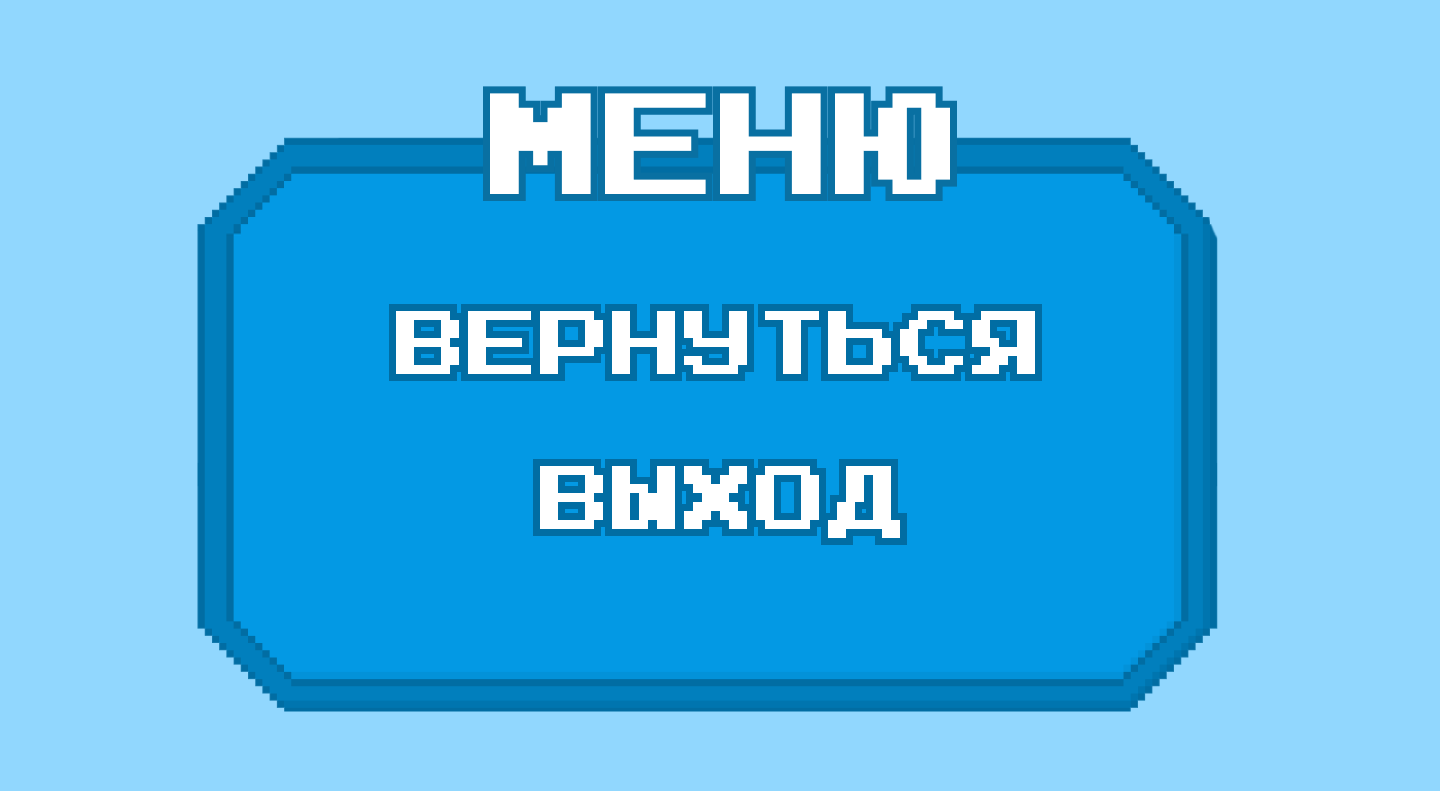
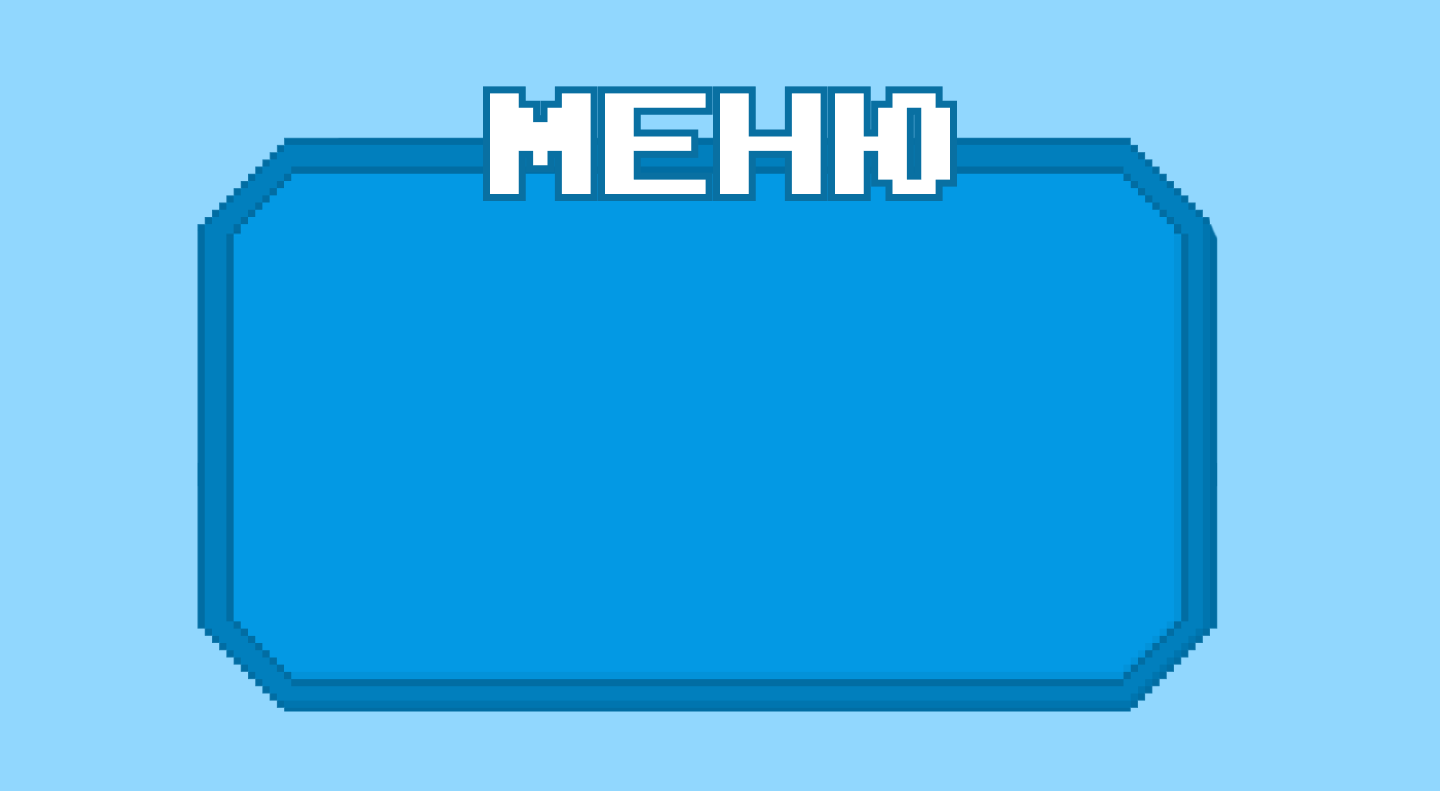
Menuha

Changed region(s): [[0.25, 0.3641, 0.75, 0.4855], [0.3438, 0.5765, 0.6562, 0.6979]]

diff --git a/MATMEH QUEST/Properties/Resources.Designer.cs b/MATMEH QUEST/Properties/Resources.Designer.cs
@@ -153,6 +153,16 @@ namespace MATMEH_QUEST.Properties {
         /// <summary>
         ///   Looks up a localized resource of type System.Drawing.Bitmap.
         /// </summary>
+        public static System.Drawing.Bitmap Вернуться_кнопка {
+            get {
+                object obj = ResourceManager.GetObject("Вернуться_кнопка", resourceCulture);
+                return ((System.Drawing.Bitmap)(obj));
+            }
+        }
+        
+        /// <summary>
+        ///   Looks up a localized resource of type System.Drawing.Bitmap.
+        /// </summary>
         public static System.Drawing.Bitmap Всплывающее_меню {
             get {
                 object obj = ResourceManager.GetObject("Всплывающее_меню", resourceCulture);
@@ -166,6 +176,16 @@ namespace MATMEH_QUEST.Properties {
         public static System.Drawing.Bitmap Выход {
             get {
                 object obj = ResourceManager.GetObject("Выход", resourceCulture);
+                return ((System.Drawing.Bitmap)(obj));
+            }
+        }
+        
+        /// <summary>
+        ///   Looks up a localized resource of type System.Drawing.Bitmap.
+        /// </summary>
+        public static System.Drawing.Bitmap Выход_кнопка {
+            get {
+                object obj = ResourceManager.GetObject("Выход_кнопка", resourceCulture);
                 return ((System.Drawing.Bitmap)(obj));
             }
         }
@@ -203,9 +223,29 @@ namespace MATMEH_QUEST.Properties {
         /// <summary>
         ///   Looks up a localized resource of type System.Drawing.Bitmap.
         /// </summary>
+        public static System.Drawing.Bitmap Деканат_готово {
+            get {
+                object obj = ResourceManager.GetObject("Деканат_готово", resourceCulture);
+                return ((System.Drawing.Bitmap)(obj));
+            }
+        }
+        
+        /// <summary>
+        ///   Looks up a localized resource of type System.Drawing.Bitmap.
+        /// </summary>
         public static System.Drawing.Bitmap Деканат_задание {
             get {
                 object obj = ResourceManager.GetObject("Деканат_задание", resourceCulture);
+                return ((System.Drawing.Bitmap)(obj));
+            }
+        }
+        
+        /// <summary>
+        ///   Looks up a localized resource of type System.Drawing.Bitmap.
+        /// </summary>
+        public static System.Drawing.Bitmap Деканат_ожидание {
+            get {
+                object obj = ResourceManager.GetObject("Деканат_ожидание", resourceCulture);
                 return ((System.Drawing.Bitmap)(obj));
             }
         }
@@ -253,9 +293,29 @@ namespace MATMEH_QUEST.Properties {
         /// <summary>
         ///   Looks up a localized resource of type System.Drawing.Bitmap.
         /// </summary>
-        public static System.Drawing.Bitmap Команта1_задание {
+        public static System.Drawing.Bitmap Комната601_готово {
             get {
-                object obj = ResourceManager.GetObject("Команта1_задание", resourceCulture);
+                object obj = ResourceManager.GetObject("Комната601_готово", resourceCulture);
+                return ((System.Drawing.Bitmap)(obj));
+            }
+        }
+        
+        /// <summary>
+        ///   Looks up a localized resource of type System.Drawing.Bitmap.
+        /// </summary>
+        public static System.Drawing.Bitmap Комната601_задание {
+            get {
+                object obj = ResourceManager.GetObject("Комната601_задание", resourceCulture);
+                return ((System.Drawing.Bitmap)(obj));
+            }
+        }
+        
+        /// <summary>
+        ///   Looks up a localized resource of type System.Drawing.Bitmap.
+        /// </summary>
+        public static System.Drawing.Bitmap Комната601_ожидание {
+            get {
+                object obj = ResourceManager.GetObject("Комната601_ожидание", resourceCulture);
                 return ((System.Drawing.Bitmap)(obj));
             }
         }

diff --git a/MATMEH QUEST/View.cs b/MATMEH QUEST/View.cs
@@ -53,13 +53,18 @@ namespace MATMEH_QUEST
             {
                 PaintTrain(graphics, Resources.Обучение_2, 430, 870,  OverButtonOnClick);
             }
+            else if (isMenu)
+            {
+                PaintMenu(graphics);
+            }
             else
             {
                 var menuButton = new PictureBox()
                 {
                     Image = Resources.меню,
                     BackColor = Color.Transparent,
-                    SizeMode = PictureBoxSizeMode.Zoom
+                    SizeMode = PictureBoxSizeMode.Zoom,
+                    Location =  new Point(20, 0)
                 };
                 menuButton.Click += MenuButtonOnClick;
                 Controls.Add(menuButton);
@@ -93,12 +98,67 @@ namespace MATMEH_QUEST
 
         private void MenuButtonOnClick(object sender, EventArgs e)
         {
+            Controls.Clear();
             isMenu = true;
+            Invalidate();
         }
 
         private void PaintMenu(Graphics graphics)
         {
-            BackgroundImage = Resources.меню;
+            var backgroundColor = Color.FromArgb(145, 215, 254);
+            BackColor = backgroundColor;
+            var table = new TableLayoutPanel();
+            table.RowStyles.Clear();
+            table.ColumnStyles.Clear();
+            table.RowStyles.Add(new RowStyle(SizeType.Percent, 40));
+            table.RowStyles.Add(new RowStyle(SizeType.Percent, 25));
+            table.RowStyles.Add(new RowStyle(SizeType.Percent, 25));
+            table.RowStyles.Add(new RowStyle(SizeType.Percent, 35));
+            table.ColumnStyles.Add(new ColumnStyle(SizeType.Percent, 30));
+            table.ColumnStyles.Add(new ColumnStyle(SizeType.Percent, 40));
+            table.ColumnStyles.Add(new ColumnStyle(SizeType.Percent, 30));
+            table.BackgroundImage = Resources.Всплывающее_меню;
+            table.BackgroundImageLayout = ImageLayout.Zoom;
+
+            var returnButton = new Button
+            {
+                BackgroundImage = Resources.Вернуться_кнопка,
+                BackgroundImageLayout = ImageLayout.Zoom,
+                FlatStyle = FlatStyle.Flat,
+                BackColor = Color.FromArgb(3, 153, 228)
+            };
+            returnButton.FlatAppearance.BorderSize = 0;
+            returnButton.Dock = DockStyle.Fill;
+
+            var exit = new Button
+            {
+                BackgroundImage = Resources.Выход_кнопка,
+                BackgroundImageLayout = ImageLayout.Zoom,
+                FlatStyle = FlatStyle.Flat,
+                BackColor = Color.FromArgb(3, 153, 228)
+            };
+            exit.FlatAppearance.BorderSize = 0;
+            exit.Dock = DockStyle.Fill;
+
+            table.Controls.Add(new Control(), 0, 0);
+            table.Controls.Add(returnButton, 1, 1);
+            table.Controls.Add(exit, 1, 2);
+            table.Controls.Add(new Control(), 1, 3);
+            table.Controls.Add(new Control(), 2, 0);
+       
+            table.Dock = DockStyle.Fill;
+            Controls.Add(table);
+            table.Update();
+
+            returnButton.Click += ReturnButtonOnClick;
+            exit.Click += ExitOnClick;
+        }
+
+        private void ReturnButtonOnClick(object sender, EventArgs e)
+        {
+            isMenu = false;
+            Controls.Clear();
+            Invalidate();
         }
 
         private void PaintMission(Graphics graphics, Bitmap missionTable, int dy)

diff --git a/MATMEH QUEST/Domain/World.cs b/MATMEH QUEST/Domain/World.cs
@@ -17,7 +17,7 @@ namespace MATMEH_QUEST.Domain
         {
             Doors = new Dictionary<int, Door>();
             Doors[0] = new Door(Door.DoorState.Open, new Room(Resources.Деканат_задание, new List<Human>(){new Human(Human.HumanState.Ready, 0, new Point(700, 0), new List<Item>())}, new List<Item>()),new Point(7040, 0) );
-            Doors[1] = new Door(Door.DoorState.Open, new Room(Resources.Команта1_задание, new List<Human>(), new List<Item>()),new Point(1050, 0) );
+            Doors[1] = new Door(Door.DoorState.Open, new Room(Resources.Комната601_задание, new List<Human>(), new List<Item>()),new Point(1050, 0) );
         }
     }
     
